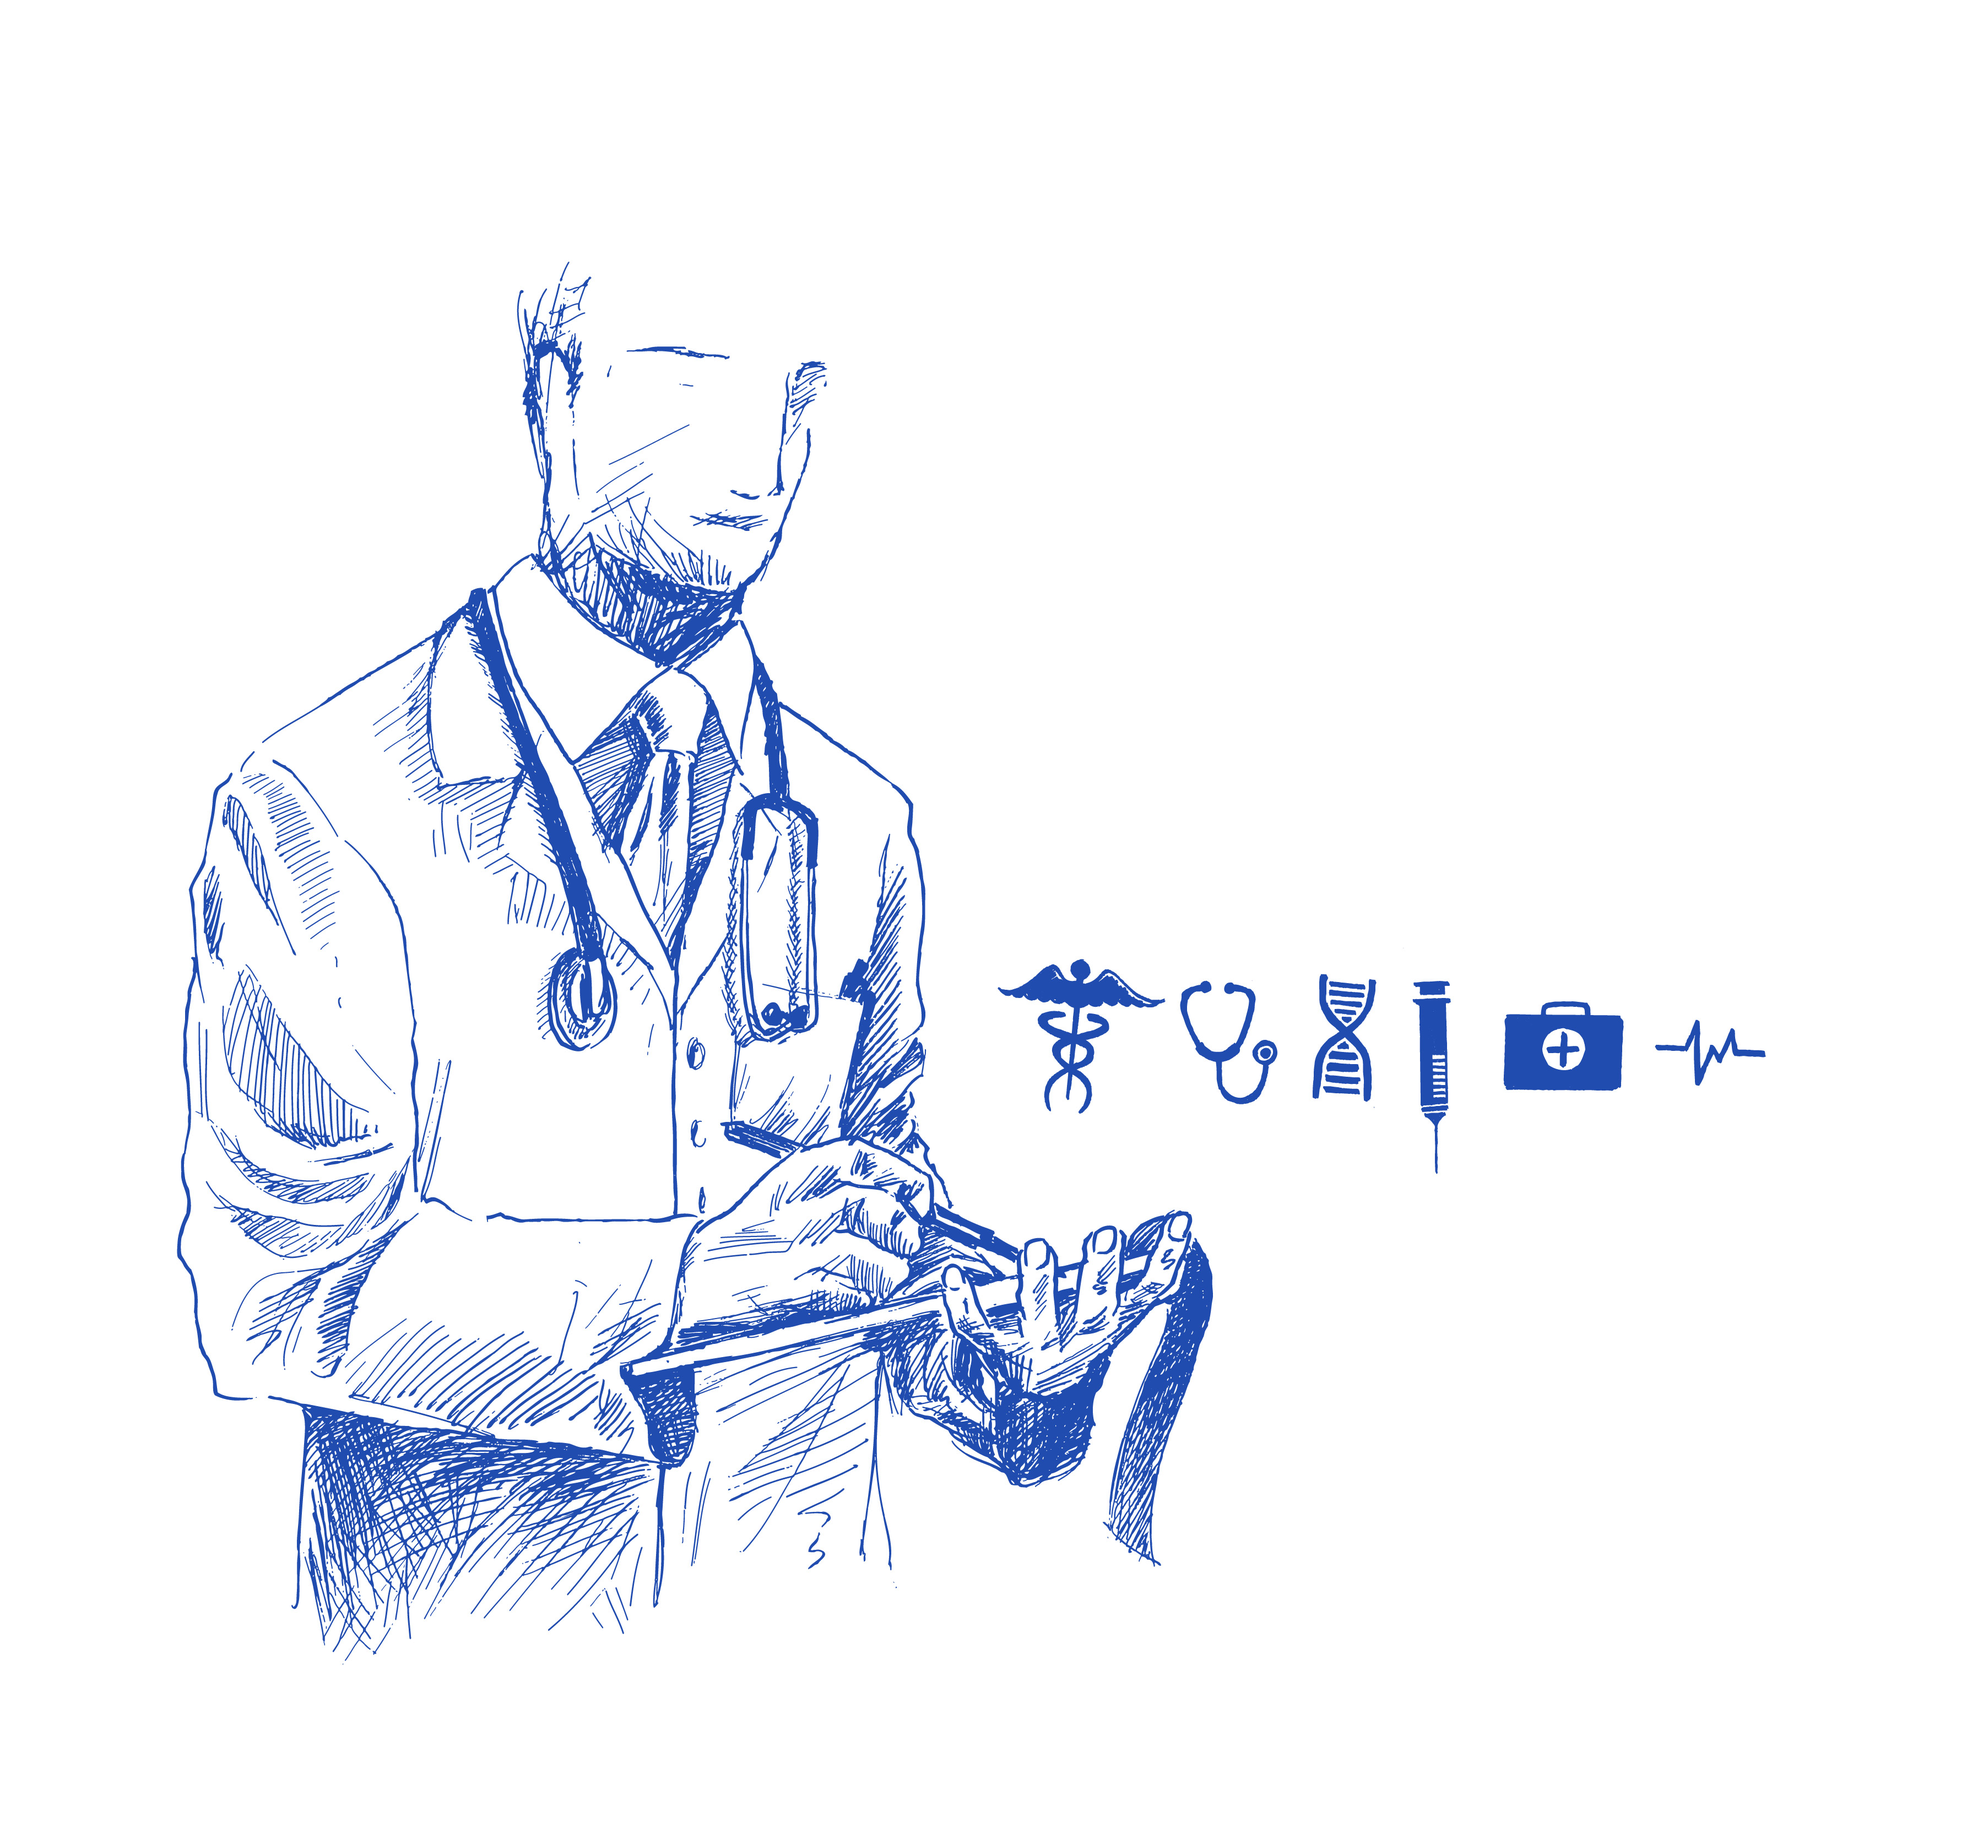
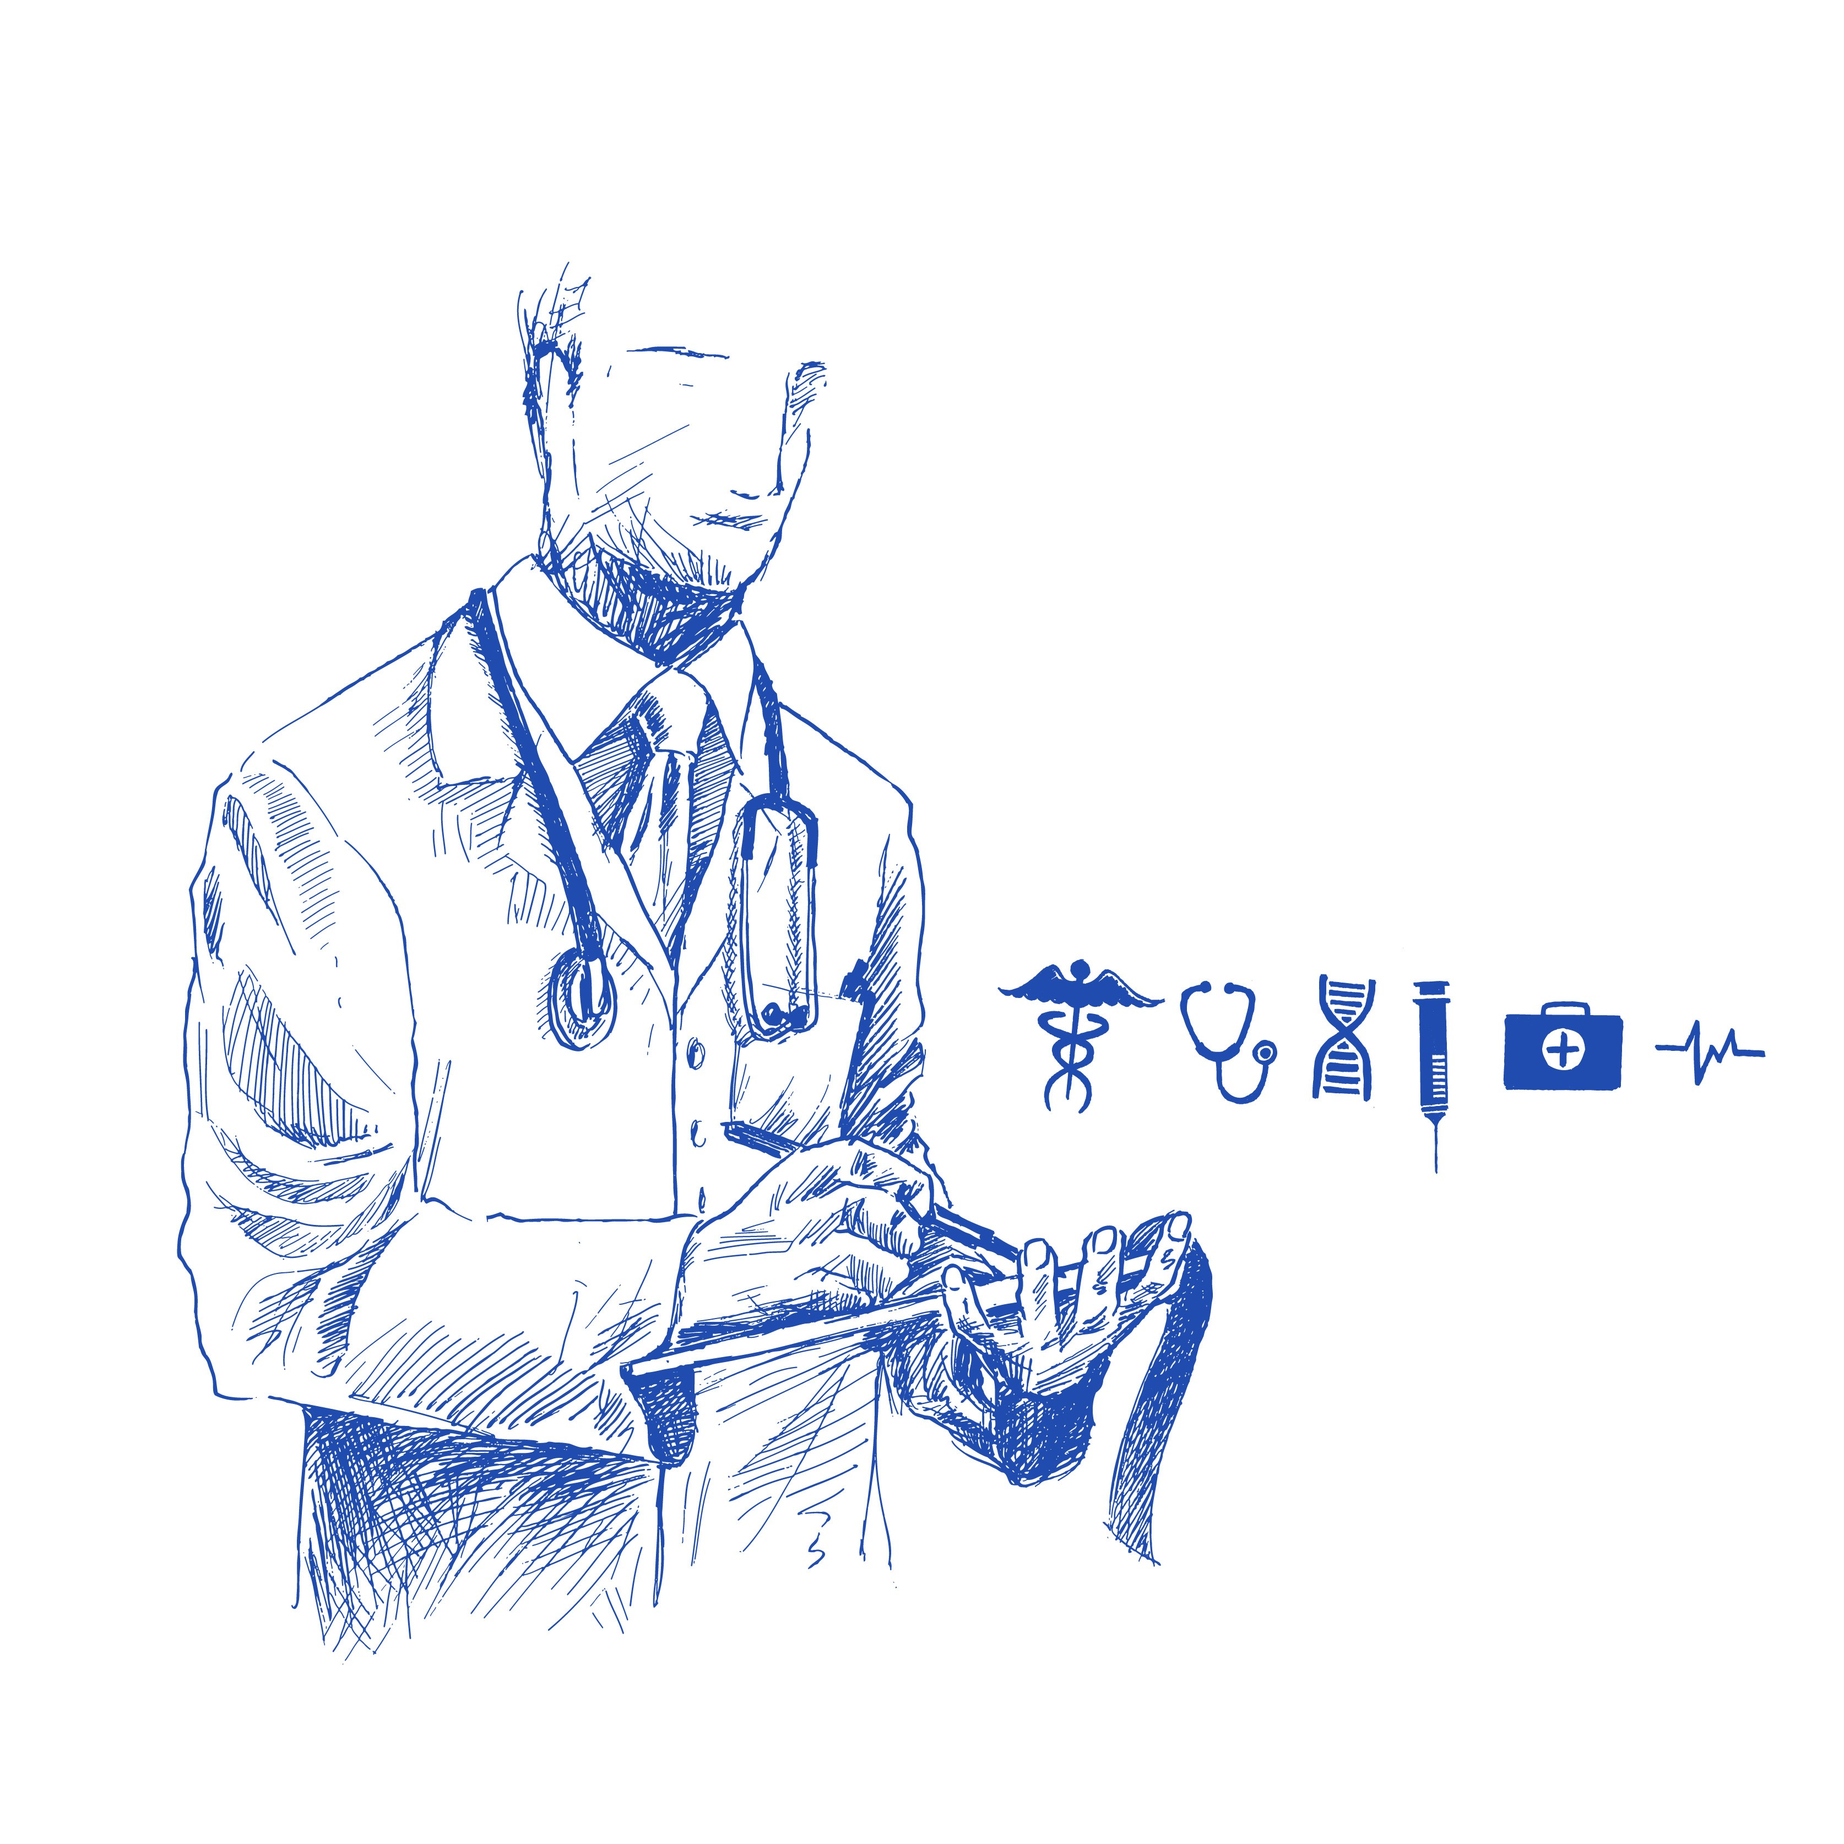
Login Page

Changed region(s): [[0.0932, 0.1553, 0.963, 0.9008], [0.2485, 0.6523, 0.2796, 0.6834]]

diff --git a/HeaLEOO/wwwroot/css/pages/auth.css b/HeaLEOO/wwwroot/css/pages/auth.css
@@ -6,16 +6,22 @@
 .auth-container {
     display: flex;
     flex-direction: column;
-    align-items: center;
+/*    align-items:flex-start;*/
     justify-content: center;
-    min-height:92vh;
-    background: linear-gradient(135deg, #1c4a92, #2c93ea);
+    justify-items:flex-start;
+    min-height:80vh !important;
+    background: #FFF;
     padding: 20px;
 }
 
 /* 🔹 Different background for Login */
 .login-page {
-    background: linear-gradient(135deg, #1c4a92, #2c93ea);
+    background: #FFF;
+    width: 100%;
+    height: 100%;
+    align-items: flex-start;
+    margin-left: 90px;
+}
 }
 
 /* 🔹 Different background for Register */
@@ -24,7 +30,9 @@
 }
 
 .auth-title-login-page {
+    font-weight:550;
     color: #246FBE;
+    margin: 0 0 10px 0;
 }
 
 .auth-title-register-page {
@@ -45,9 +53,9 @@
     background: #fff;
     padding: 2rem;
     border-radius: 15px;
-    box-shadow: 0 8px 25px rgba(0, 0, 0, 0.1);
+/*    box-shadow: 0 8px 25px rgba(0, 0, 0, 0.1);*/
     width: 100%;
-    max-width: 420px;
+/*    max-width: 420px;*/
     text-align: center;
     animation: fadeInUp 0.6s ease-in-out;
 }
@@ -60,9 +68,10 @@
     color: #2c7da0;
 }
 
-.second-line{
-    font-size:0.9rem;
-    color:#929292;
+.second-line {
+    font-size: 0.9rem;
+    color: #929292;
+    margin: 0 0 20px 0;
 }
 
 .auth-subtitle {
@@ -75,13 +84,14 @@
 .auth-form .form-group label {
     font-weight: 500; /* Slightly bold */
     display: block;
-    margin-bottom: 0.3rem;
+    margin-bottom: 0.6rem;
     text-align: left;
     color: #333;
 }
 
 .auth-form .form-control {
     border-radius: 10px;
+    margin-bottom: 2rem;
     padding: 0.75rem;
     font-size: 0.95rem;
     border: 1px solid #ddd;
@@ -95,7 +105,8 @@
 
 /* Login button */
 .btn-login {
-    background: linear-gradient(135deg, #1c4a92, #2c93ea);
+    /*    background: linear-gradient(135deg, #1c4a92, #2c93ea);*/
+    background: #1c4a92;
     border: none;
     padding: 0.8rem;
     font-size: 1rem;
@@ -119,9 +130,9 @@
     transition: background 0.3s ease;
 }
 
-.btn-login:hover{
+/*.btn-login:hover{
     background: linear-gradient(160deg, #2c93ea, #1c4a92);
-}
+}*/
 
 .btn-register:hover {
     background: linear-gradient(160deg, #6CA4FF, #1533bf);
@@ -187,5 +198,76 @@
     to {
         opacity: 1;
         transform: translateY(0);
+    }
+}
+
+/* Split container */
+.auth-split-container {
+    display: flex;
+    min-height: 95vh;
+    background: #FFF;
+}
+
+/* Left side */
+.auth-left {
+    flex: 1;
+    position: relative;
+}
+
+.auth-left img {
+    margin: 100px 200px;
+    width: 700px;
+    height: 700px;
+    object-fit: cover;
+    /* border: 2px solid black;*/
+}
+
+/* Right side */
+.auth-right {
+    flex: 1;
+    display: flex;
+    align-items: center;
+    justify-content:center;
+    background: #FFF; /* light gray background for contrast */
+}
+
+/* Auth card adjustments */
+.auth-card {
+    background: #fff;
+    padding: 3rem;
+/*    margin-left: 50px;*/
+    border-radius: 15px;
+    width: 500px;
+    height:700px;
+/*    max-width: 400px;*/
+    text-align:center;
+/*    border: 2px solid black;*/
+    /*    box-shadow: 0 10px 25px rgba(0,0,0,0.1);*/
+}
+
+
+/* Links */
+.auth-link {
+    color: #2c7da0;
+    text-decoration: none;
+}
+
+.auth-link:hover {
+    text-decoration: underline;
+    font-weight:600;
+}
+
+/* Responsive for mobile */
+@media (max-width: 768px) {
+    .auth-split-container {
+        flex-direction: column;
+    }
+
+    .auth-left {
+        height: 250px;
+    }
+
+    .auth-right {
+        padding: 1rem;
     }
 }
